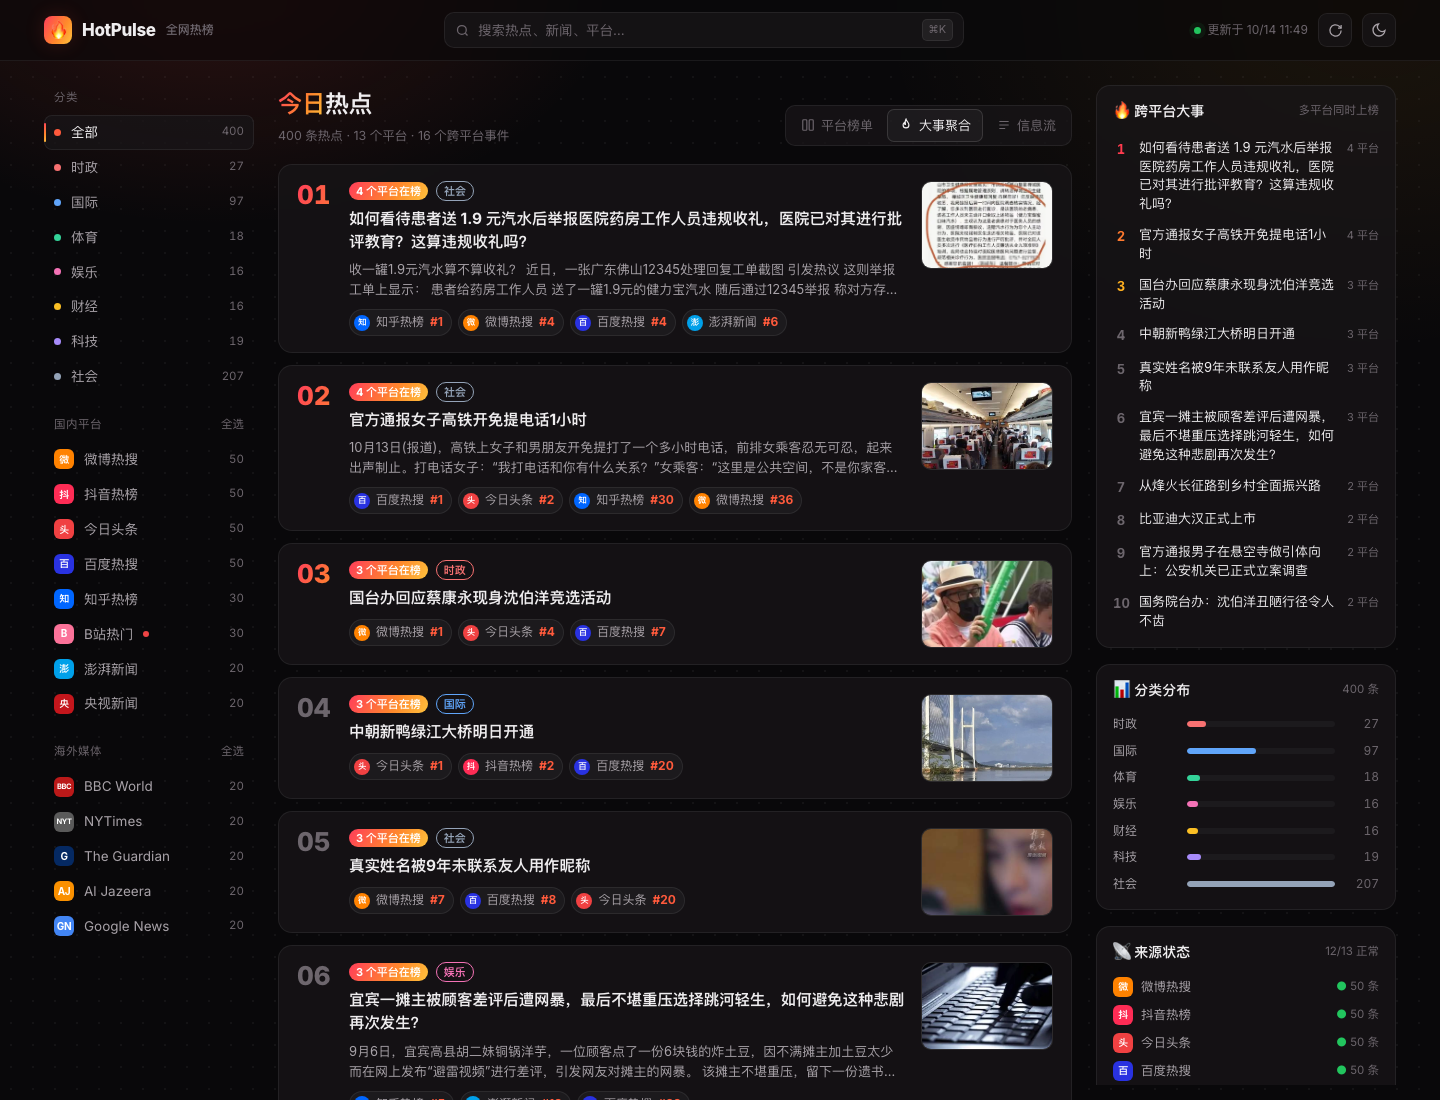
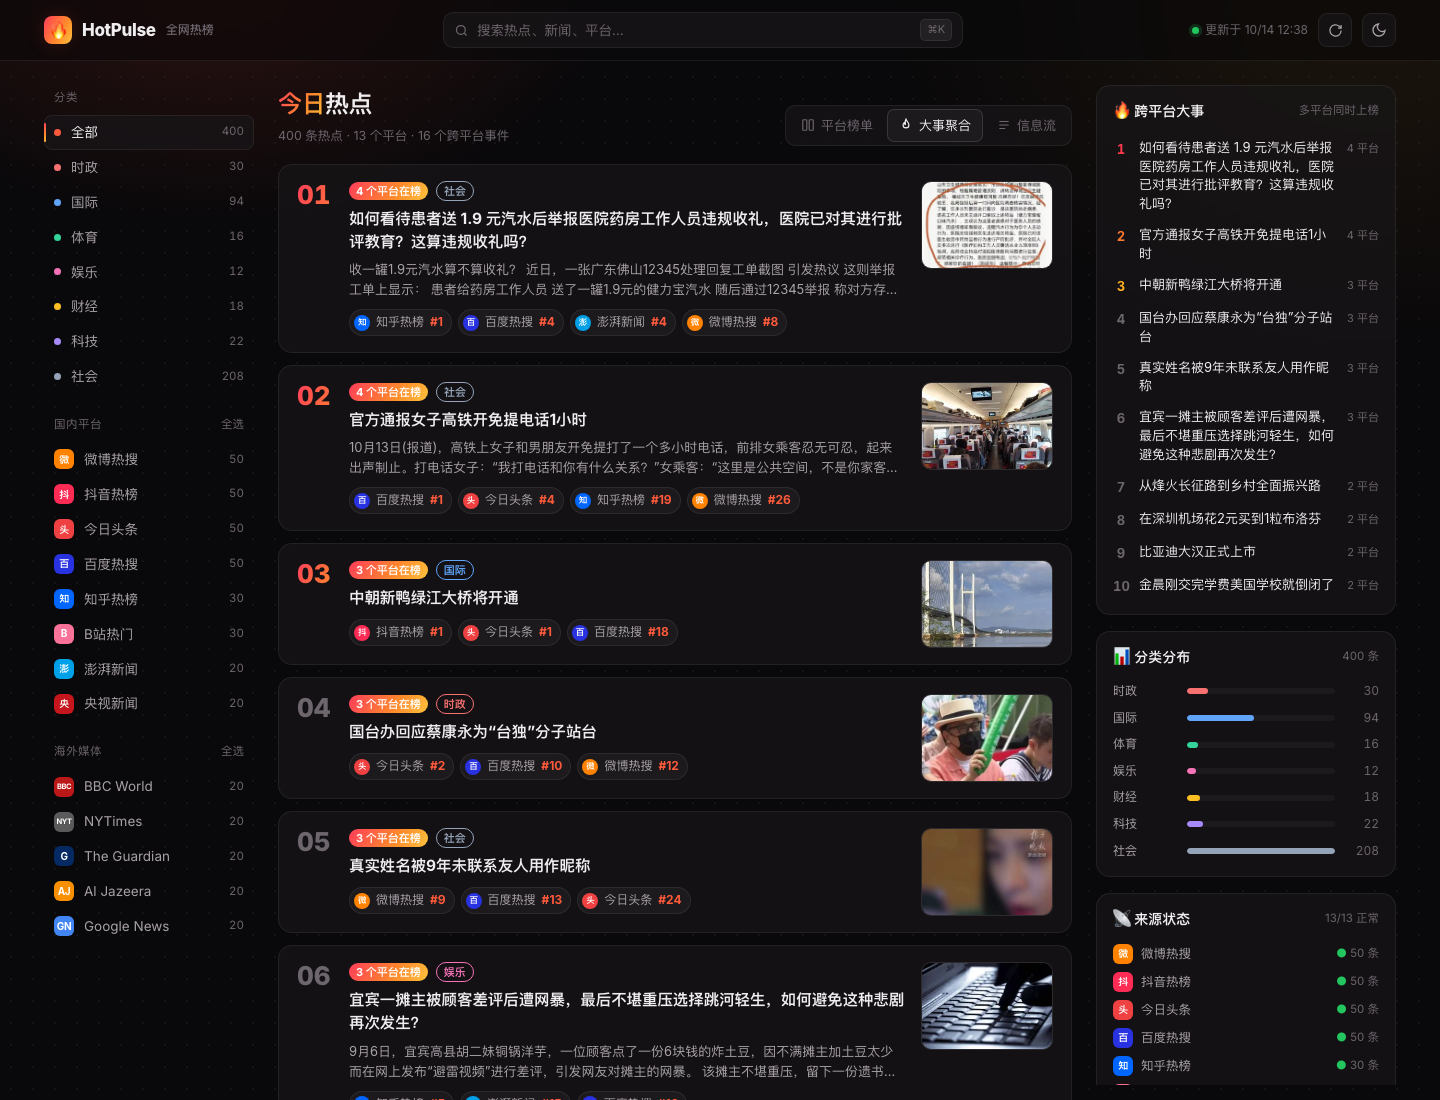
docs: 更新 B站相关说明并重新截图（13/13 来源正常）

diff --git a/README.md b/README.md
@@ -82,7 +82,7 @@ GitHub Pages（index.html）
 | 今日头条 | hot-board 接口 | 50 | 含封面图 |
 | 百度热搜 | top.baidu.com 接口 | 50 | 跳过置顶条 |
 | 知乎热榜 | api.zhihu.com | 30 | 含问题摘要 |
-| B站热门 | ranking/v2 接口 | 30 | 视频标题不参与事件聚合 |
+| B站热门 | ranking/v2 接口（被风控时降级到综合热门） | 30 | 先取游客 buvid Cookie 规避风控；视频标题不参与事件聚合 |
 | 澎湃新闻 | 首页侧栏热闻接口 | 20 | |
 | 央视新闻 | 新闻列表 jsonp | 20 | 按时间排序 |
 
@@ -127,4 +127,4 @@ python3 -m http.server 8000     # 浏览器打开 http://localhost:8000
 | 页面自动刷新 | 已打开的页面每 10 分钟重新读取 `data.json`，也可点右上角刷新按钮 |
 
 - 某个来源本次抓取失败时沿用上一次的数据，卡片上标注「旧数据」，右侧「来源状态」显示红点
-- 目前 B站热门在 Actions（海外机器）上抓取失败；如果国内来源持续失败，可以改为在本机用 launchd / cron 定时执行 `python3 scraper.py && git commit -am "data" && git push`
+- Actions 运行在海外机器上，如果某个国内来源持续失败，可以改为在本机用 launchd / cron 定时执行 `python3 scraper.py && git commit -am "data" && git push`
